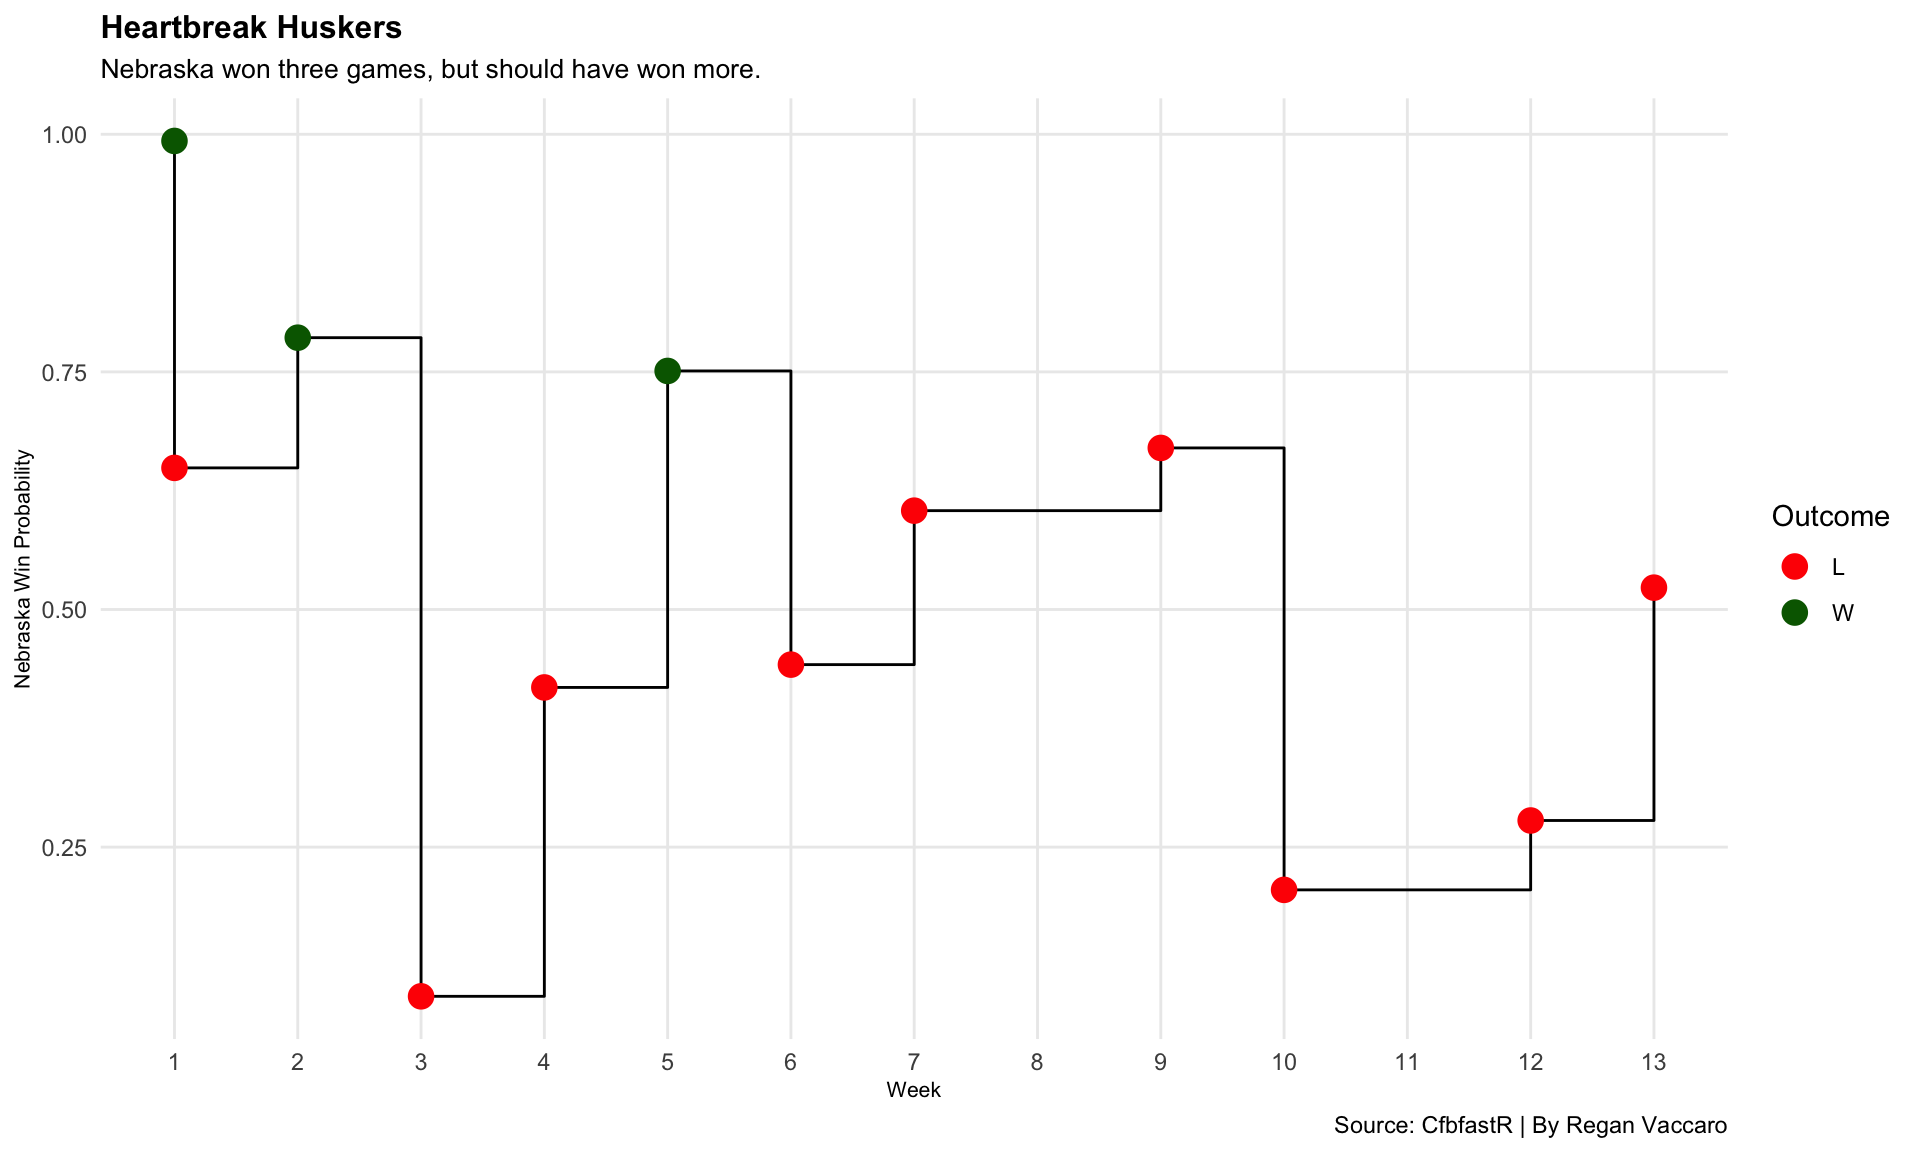
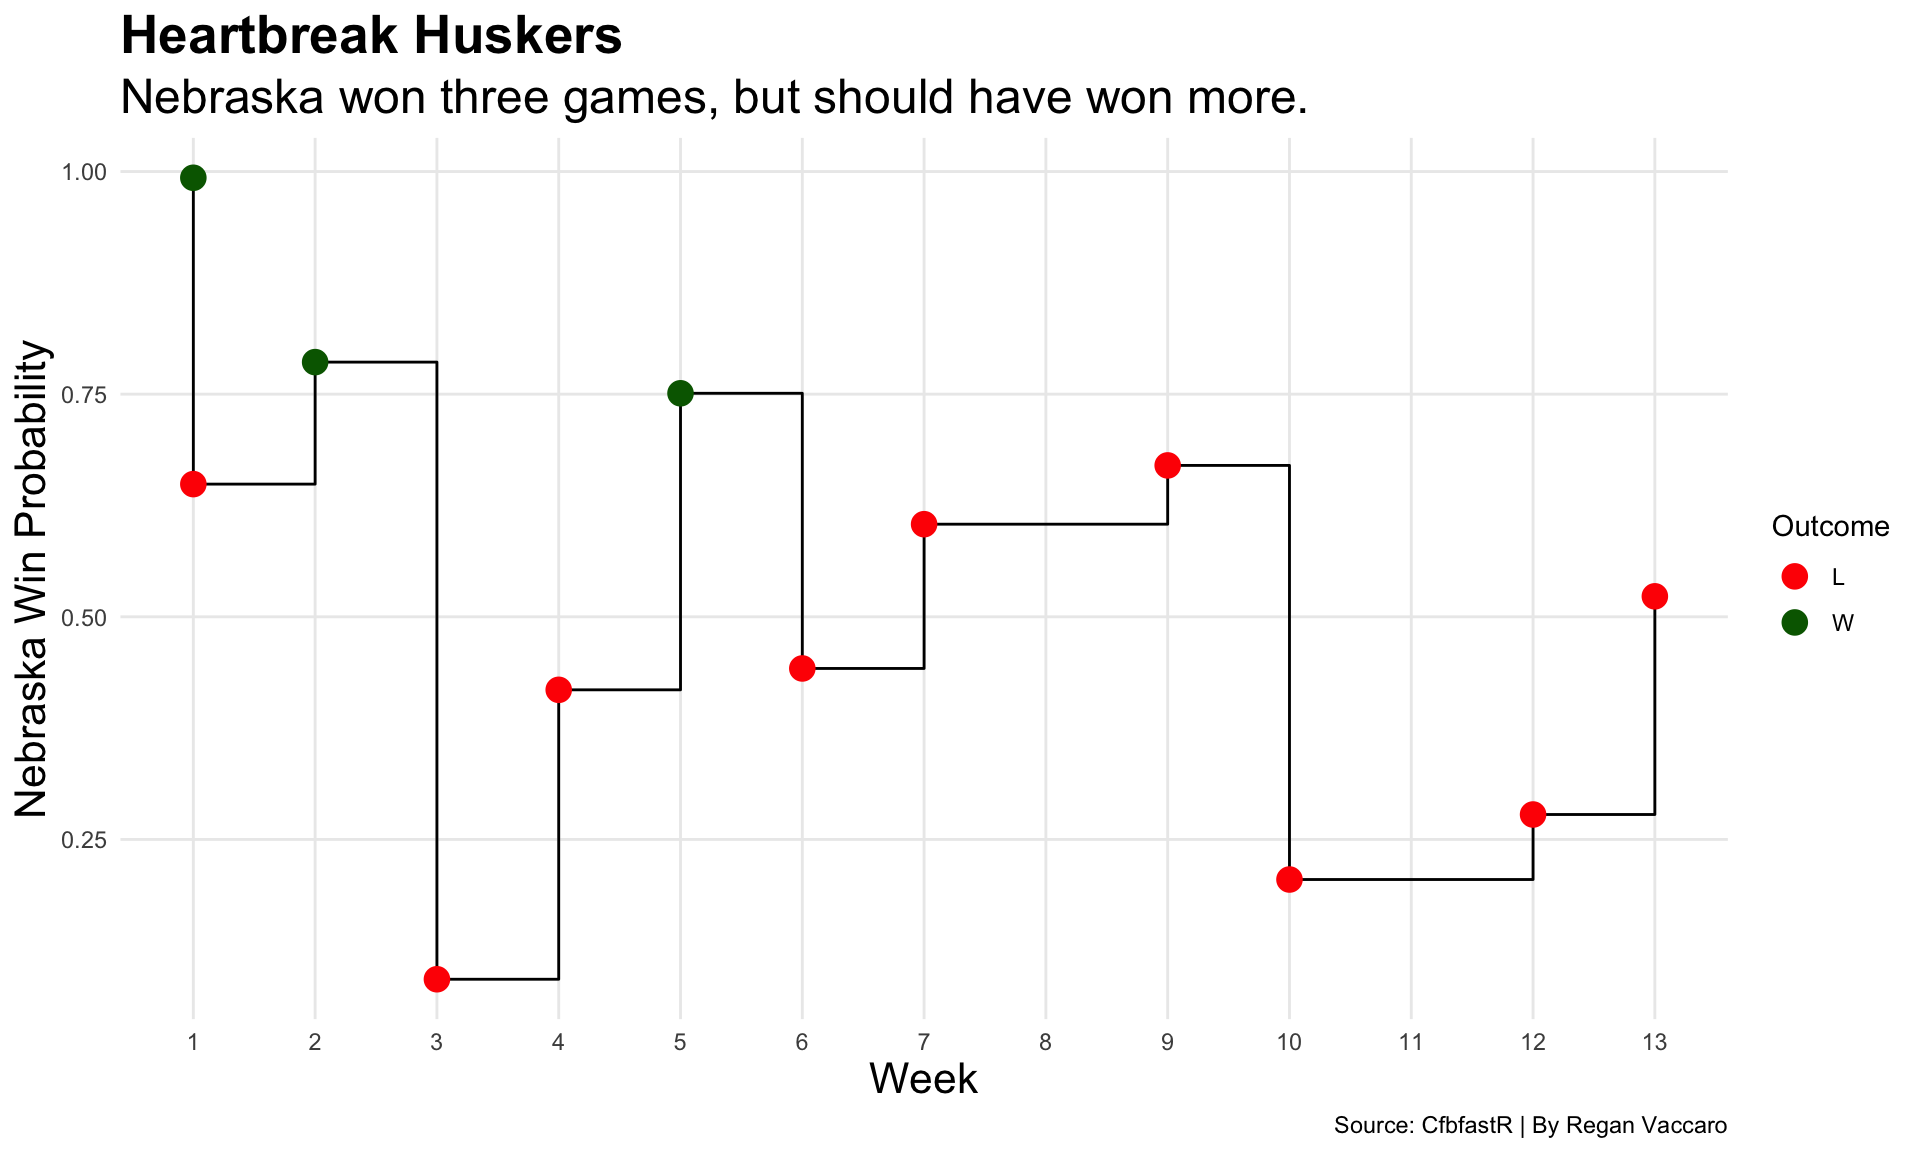
wow

diff --git a/2021/12/02/is-nebraska-the-best-3-win-team-in-college-football/index.html b/2021/12/02/is-nebraska-the-best-3-win-team-in-college-football/index.html
@@ -129,9 +129,9 @@ team_colors_logos = team_info %&gt;%
        caption=&quot;Source: CfbfastR | By Regan Vaccaro&quot;) +
   theme_minimal() +
   theme(
-    plot.title = element_text(size = 12, face = &quot;bold&quot;),
-    axis.title = element_text(size = 8),
-    plot.subtitle = element_text(size=10),
+    plot.title = element_text(size = 20, face = &quot;bold&quot;),
+    axis.title = element_text(size = 16),
+    plot.subtitle = element_text(size=18),
     panel.grid.minor = element_blank())</code></pre>
 <p><img src="http://reganvaccaro.github.io/2021/12/02/is-nebraska-the-best-3-win-team-in-college-football/index_files/figure-html/unnamed-chunk-6-1.png" width="1152" />
 Nebraska ended their season having scored 314 points and only 244 points were scored against them. That left them with a +70 overall for the season. In Big Ten play, they had a +7 in points scores versus points allowed. The graphs above show these statistics very accurately. For their wins against Buffalo, Fordham, &amp; Northwestern, the graphs show mostly green. For every other game, it is a different story. For each good drive, it seemed like there was an equal and opposite drive in the opposing team’s favor. That doesn’t discount all of the good that Nebraska played in the season, however.The graph shows that Nebraska competed well, but had major problems in sealing the deal in the end.</p>
@@ -157,9 +157,9 @@ labs(x=&quot;Amount of Wins&quot;, y=&quot;SRS Rating&quot;,
        caption=&quot;Source: CfbfastR | By Regan Vaccaro&quot;) +
   theme_minimal() +
   theme(
-    plot.title = element_text(size = 12, face = &quot;bold&quot;),
-    axis.title = element_text(size = 8),
-    plot.subtitle = element_text(size=10),
+    plot.title = element_text(size = 20, face = &quot;bold&quot;),
+    axis.title = element_text(size = 16),
+    plot.subtitle = element_text(size=18),
     panel.grid.minor = element_blank(),
     )</code></pre>
 <p><img src="http://reganvaccaro.github.io/2021/12/02/is-nebraska-the-best-3-win-team-in-college-football/index_files/figure-html/unnamed-chunk-10-1.png" width="960" />
@@ -203,9 +203,9 @@ scale_color_manual(values = c(&quot;red&quot;, &quot;darkgreen&quot;))+
        caption=&quot;Source: CfbfastR | By Regan Vaccaro&quot;) +
   theme_minimal() +
   theme(
-    plot.title = element_text(size = 12, face = &quot;bold&quot;),
-    axis.title = element_text(size = 8),
-    plot.subtitle = element_text(size=10),
+    plot.title = element_text(size = 20, face = &quot;bold&quot;),
+    axis.title = element_text(size = 16),
+    plot.subtitle = element_text(size=18),
     panel.grid.minor = element_blank(),
     )</code></pre>
 <p><img src="http://reganvaccaro.github.io/2021/12/02/is-nebraska-the-best-3-win-team-in-college-football/index_files/figure-html/unnamed-chunk-14-1.png" width="960" />
